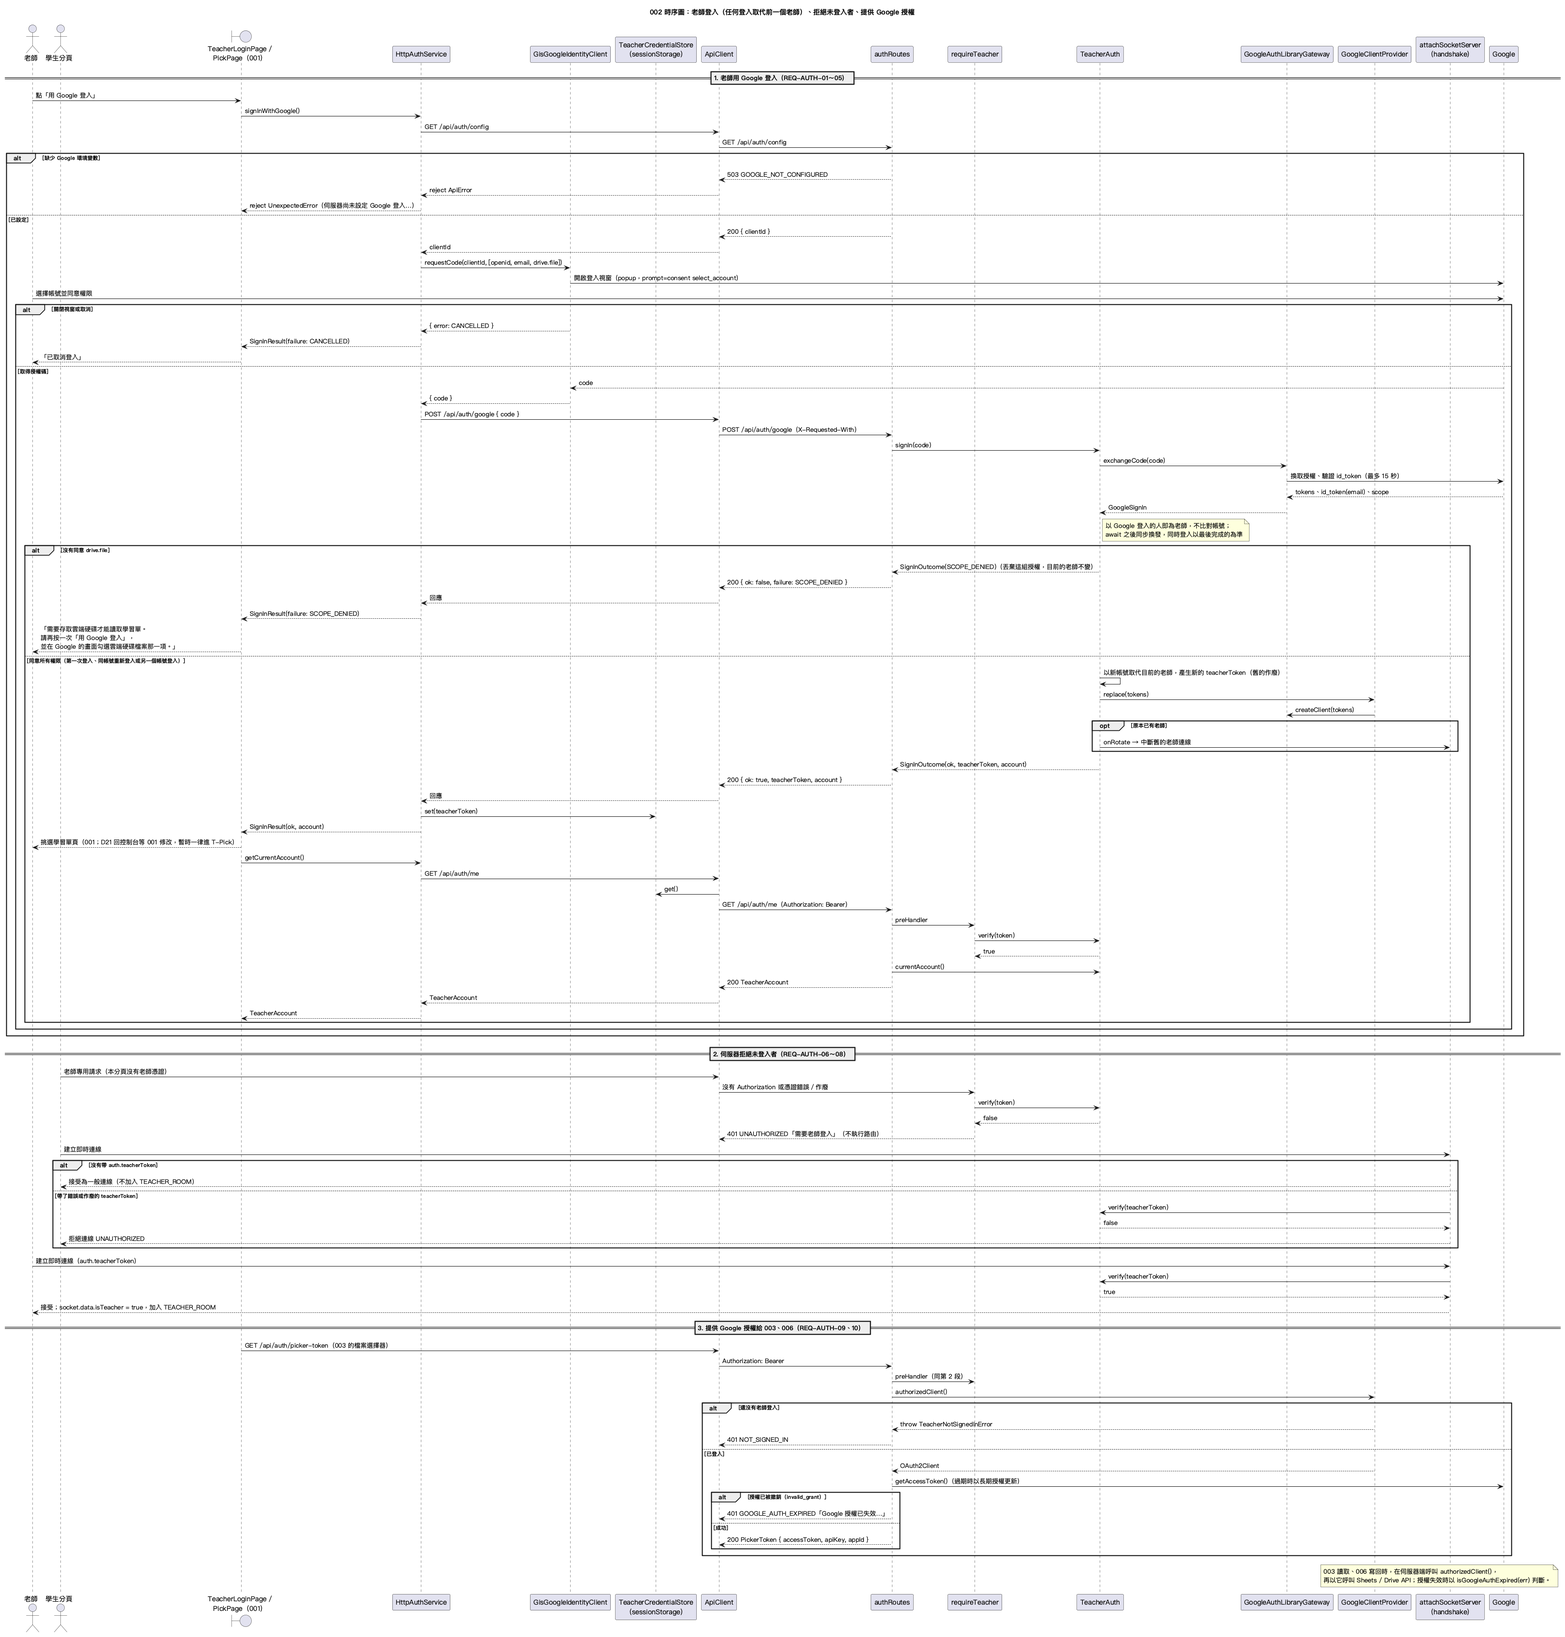
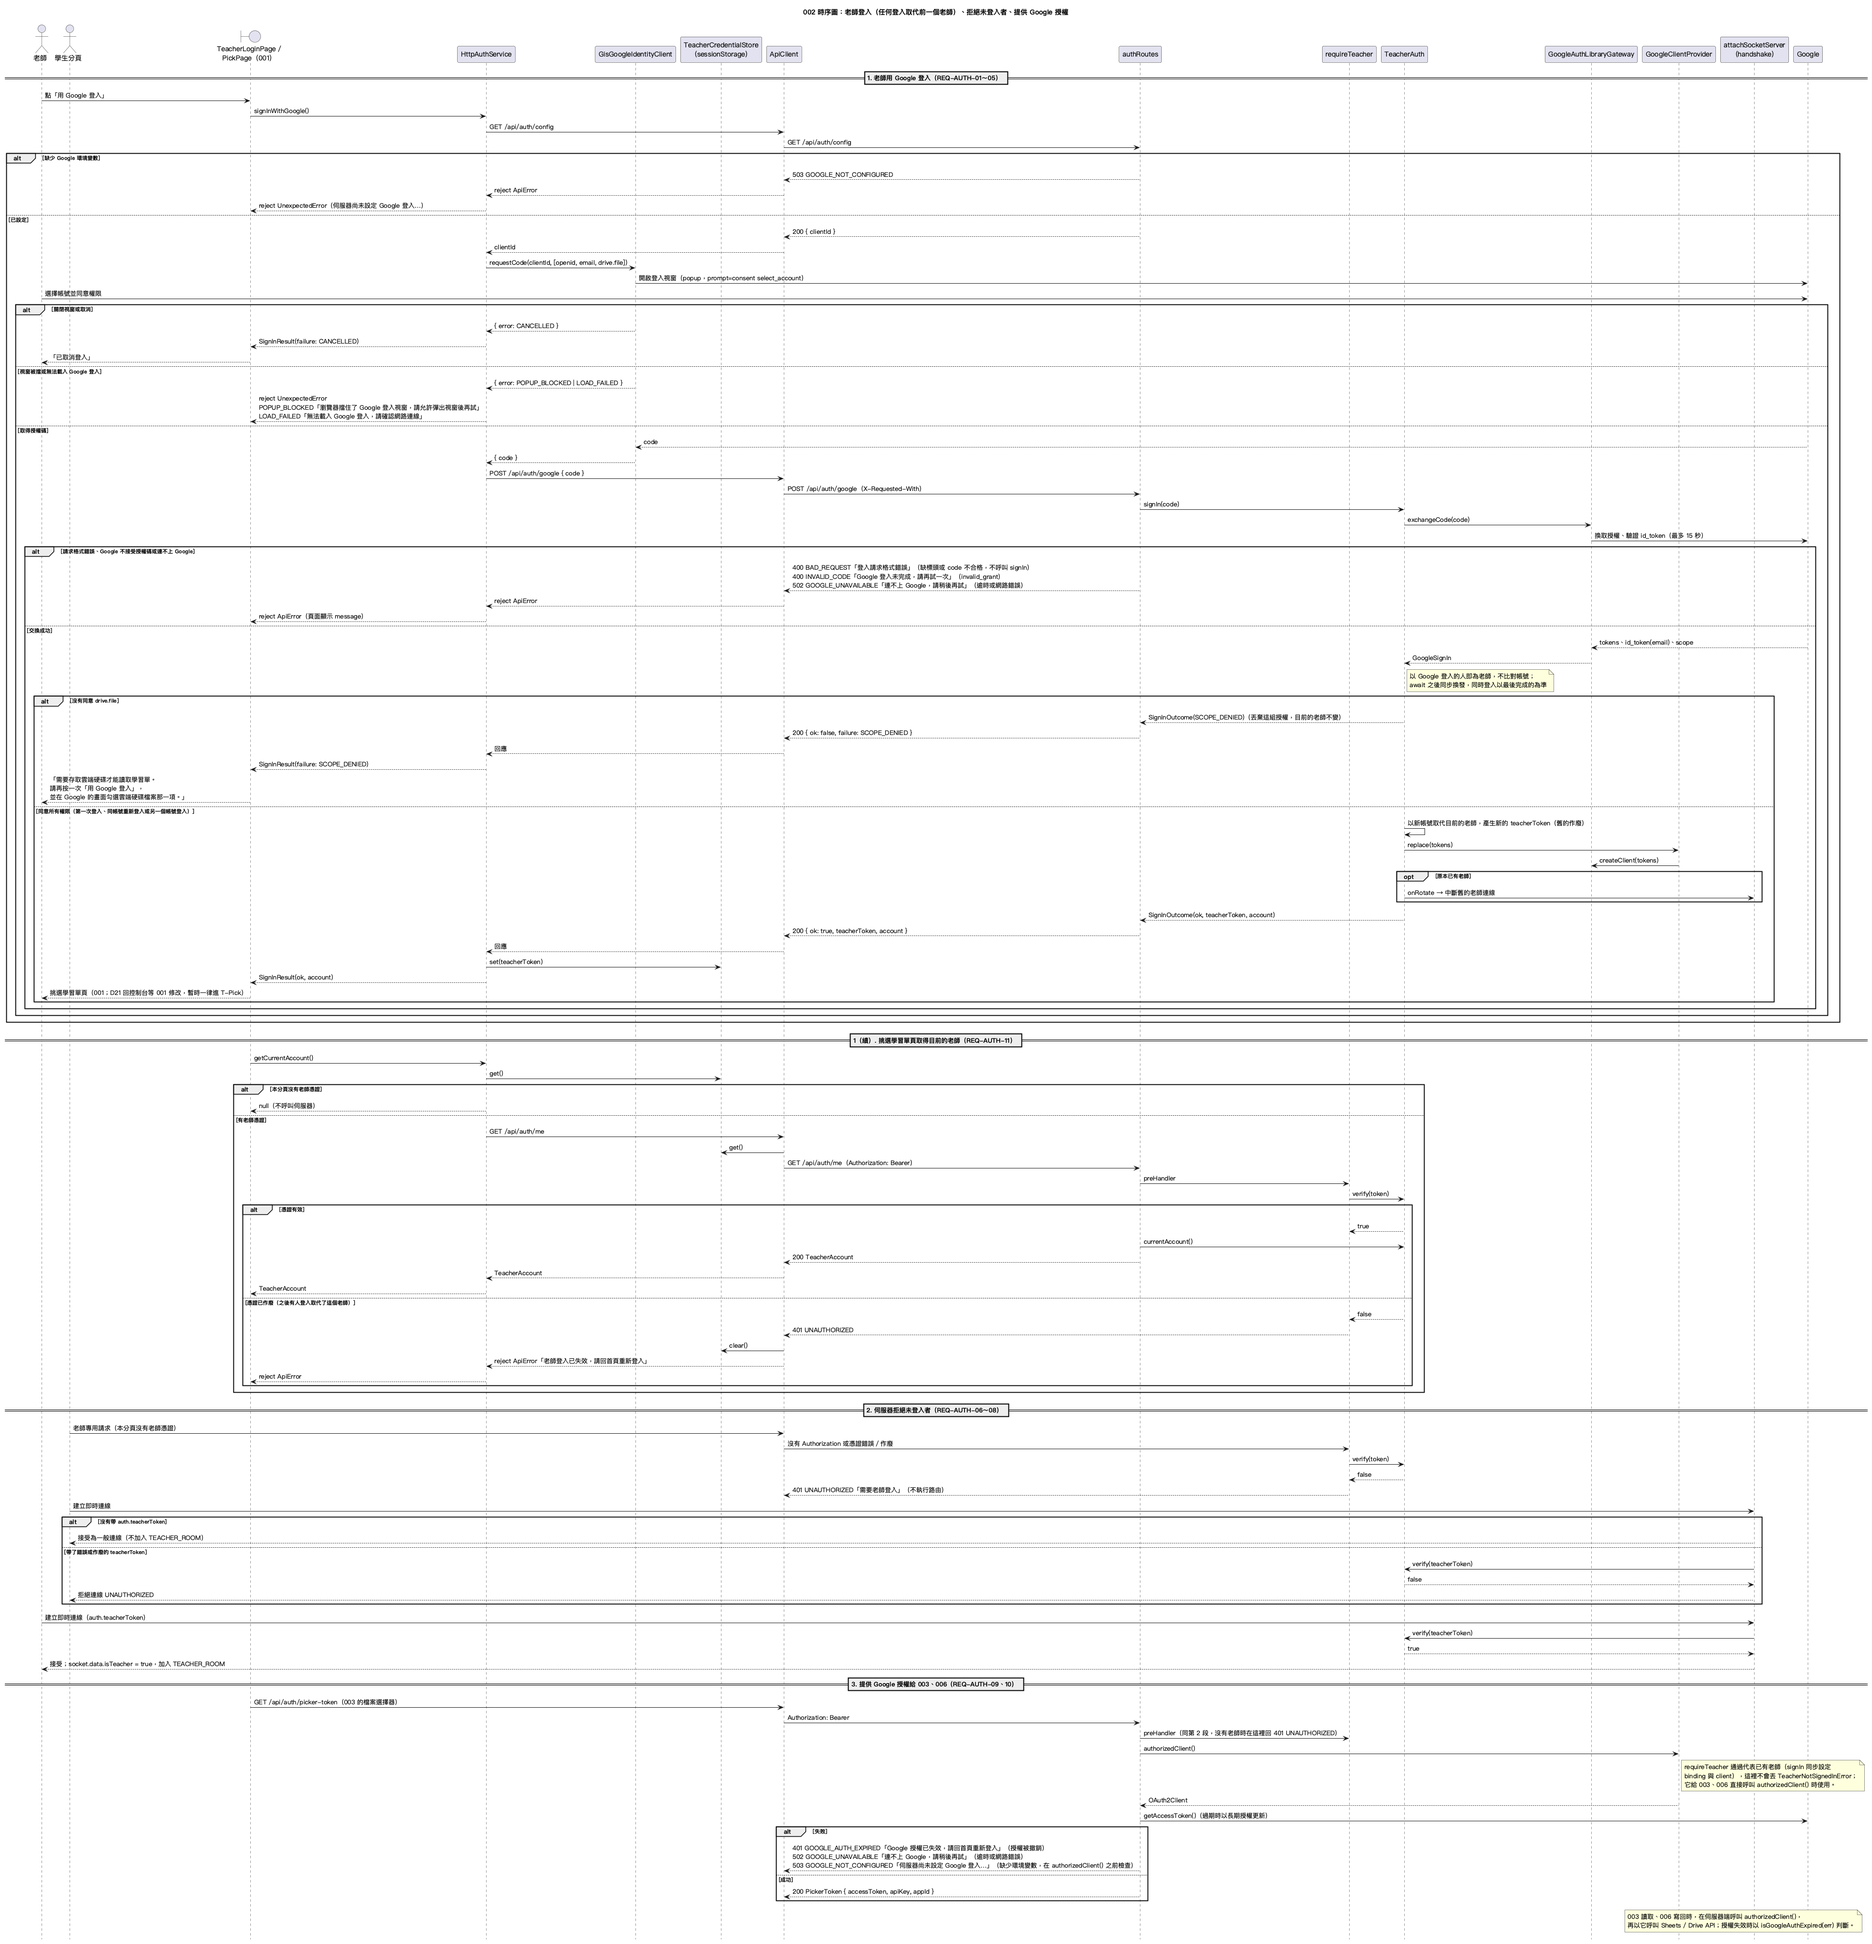
spec(002): 依圖表一致性驗證同步三張圖與資料模型
T057 比對發現程式照 contracts 實作，但圖沒跟上（B1–B9）：signingIn 的型別、視窗被擋或無法載入的分支、登入路由的錯誤回應、getCurrentAccount 沒有憑證回 null 與憑證作廢時清除、authRoutes 讀 AppConfig、組合根建立的實作、app.requireTeacher 與 app.io 的名稱。picker-token 原本畫了走不到的 NOT_SIGNED_IN 分支（requireTeacher 已先擋下），改成 note 並補上 502、503。data-model 與 plan 的「圖表的修訂」一併更新，PNG 重新產生；時序圖加上 hide footbox，避免超過 PlantUML 的 4096 px 上限被截掉。

Refs: T057

diff --git a/specs/002-teacher-login/data-model.md b/specs/002-teacher-login/data-model.md
@@ -15,7 +15,7 @@
 
 | 類別 | 欄位／方法 | 規則 |
 | --- | --- | --- |
-| `HttpAuthService`（實作 001 `AuthService`） | `signInWithGoogle(): Promise<SignInResult>`、`getCurrentAccount(): Promise<TeacherAccount \| null>`；私有 `signingIn` | 登入進行中再呼叫回傳同一個 Promise；結果對應見 [contracts/auth-http.md](./contracts/auth-http.md)「前端如何轉換」 |
+| `HttpAuthService`（實作 001 `AuthService`） | `signInWithGoogle(): Promise<SignInResult>`、`getCurrentAccount(): Promise<TeacherAccount \| null>`；私有 `signingIn: Promise<SignInResult> \| null` | 登入進行中再呼叫回傳同一個 Promise；Google 視窗被擋或無法載入時直接 reject `UnexpectedError`；結果對應見 [contracts/auth-http.md](./contracts/auth-http.md)「前端如何轉換」 |
 | `GoogleIdentityClient`（介面） | `requestCode(clientId: string, scopes: string[]): Promise<GoogleCodeResult>` | 唯一實作 `GisGoogleIdentityClient`；介面供測試替身使用（原則 VIII） |
 | `GisGoogleIdentityClient` | — | 載入 GIS、以 popup 取得授權碼（research RD-10） |
 | `GoogleCodeResult` | `code?: string`、`error?: GoogleCodeError` | 兩者恰有一個 |
@@ -44,9 +44,9 @@
 | `PickerToken` | `accessToken`、`apiKey`、`appId`（皆 `string`） | `GET /api/auth/picker-token` 的回應 |
 | `ErrorBody` | `code: string`、`message: string` | 所有錯誤回應的格式；`message` 是給老師看的中文 |
 | `requireTeacher` | `(request, reply) => Promise<void>` | Fastify preHandler；以 `app.requireTeacher` 提供 |
-| `authRoutes` | Fastify plugin | 四個路由，見 [contracts/auth-http.md](./contracts/auth-http.md) |
-| `attachSocketServer` | `(app, teacherAuth) => io.Server`；常數 `TEACHER_ROOM = 'teacher'` | 見 [contracts/socket-handshake.md](./contracts/socket-handshake.md) |
-| `buildApp` | `(config: AppConfig, deps) => FastifyInstance` | 伺服器組合根；`deps.gateway: GoogleOAuthGateway` 為 002 的替身注入點，003–006 可在 `deps` 加入自己的替身（例如 003 的 `spreadsheetReader`） |
+| `authRoutes` | Fastify plugin；選項 `{ config: AppConfig, teacherAuth, googleClients }` | 每次請求讀 `config.google`（`null` 時回 503）；四個路由，見 [contracts/auth-http.md](./contracts/auth-http.md) |
+| `attachSocketServer` | `(app, teacherAuth) => io.Server`；常數 `TEACHER_ROOM = 'teacher'` | Server 以 `app.io` 提供；見 [contracts/socket-handshake.md](./contracts/socket-handshake.md) |
+| `buildApp` | `(config: AppConfig, deps) => FastifyInstance` | 伺服器組合根；建立 `TeacherAuth`、`GoogleClientProvider`（`app.googleClients`）、`requireTeacher`（`app.requireTeacher`），沒有 `deps.gateway` 時建立 `GoogleAuthLibraryGateway`；`deps.gateway: GoogleOAuthGateway` 為 002 的替身注入點，003–006 可在 `deps` 加入自己的替身（例如 003 的 `spreadsheetReader`） |
 
 ## 4. 目前的老師的狀態轉換（`TeacherAuth`）
 

diff --git a/specs/002-teacher-login/plan.md b/specs/002-teacher-login/plan.md
@@ -93,6 +93,7 @@
 | G-1 | research RD-11 需要區分「連不上 Google」與其他錯誤 | 類別圖新增 `GoogleUnavailableError`（`GoogleAuthLibraryGateway` 丟出） |
 | G-2 | 003、006 要從 `app` 取得 `GoogleClientProvider`（contracts/server-extension.md） | 類別圖新增 `buildApp --> TeacherAuth`、`buildApp --> GoogleClientProvider : app.googleClients` |
 | G-3 | 2026-11-22 配合 001 最終版：以 Google 登入的人即為老師、任何登入取代前一個老師、`SCOPE_DENIED` 由 002 新增且以 200 回傳 | 類別圖拿掉 `NOT_TEACHER`、`TeacherBinding.googleSub`、`GoogleSignIn.sub`，`SignInFailure` 註記改為「002 新增」；時序圖第 1 段拿掉「sub 不同 → NOT_TEACHER」分支，`SCOPE_DENIED` 改為 200，成功分支改為「取代前一個老師」並註明 D21 的暫時限制 |
+| G-4 | 2026-11-25 圖表一致性驗證（T057）：程式依契約實作、圖沒跟上 | 類別圖：`signingIn` 改為 `Promise<SignInResult> [0..1]`，新增 `HttpAuthService ..> UnexpectedError`、`authRoutes --> AppConfig`、`buildApp --> GoogleAuthLibraryGateway`，`app.requireTeacher`、`app.io` 標上名稱。組件圖：補上組合根建立的實作與 `authRoutes --> loadConfig`。時序圖：第 1 段加上視窗被擋或無法載入、`POST /api/auth/google` 的錯誤回應；新增「1（續）」畫出 `getCurrentAccount()` 沒有憑證回 `null`、憑證作廢時清除；第 3 段把走不到的 `NOT_SIGNED_IN` 分支改成 note，補上 502、503 |
 
 PNG 已重新產生。
 
